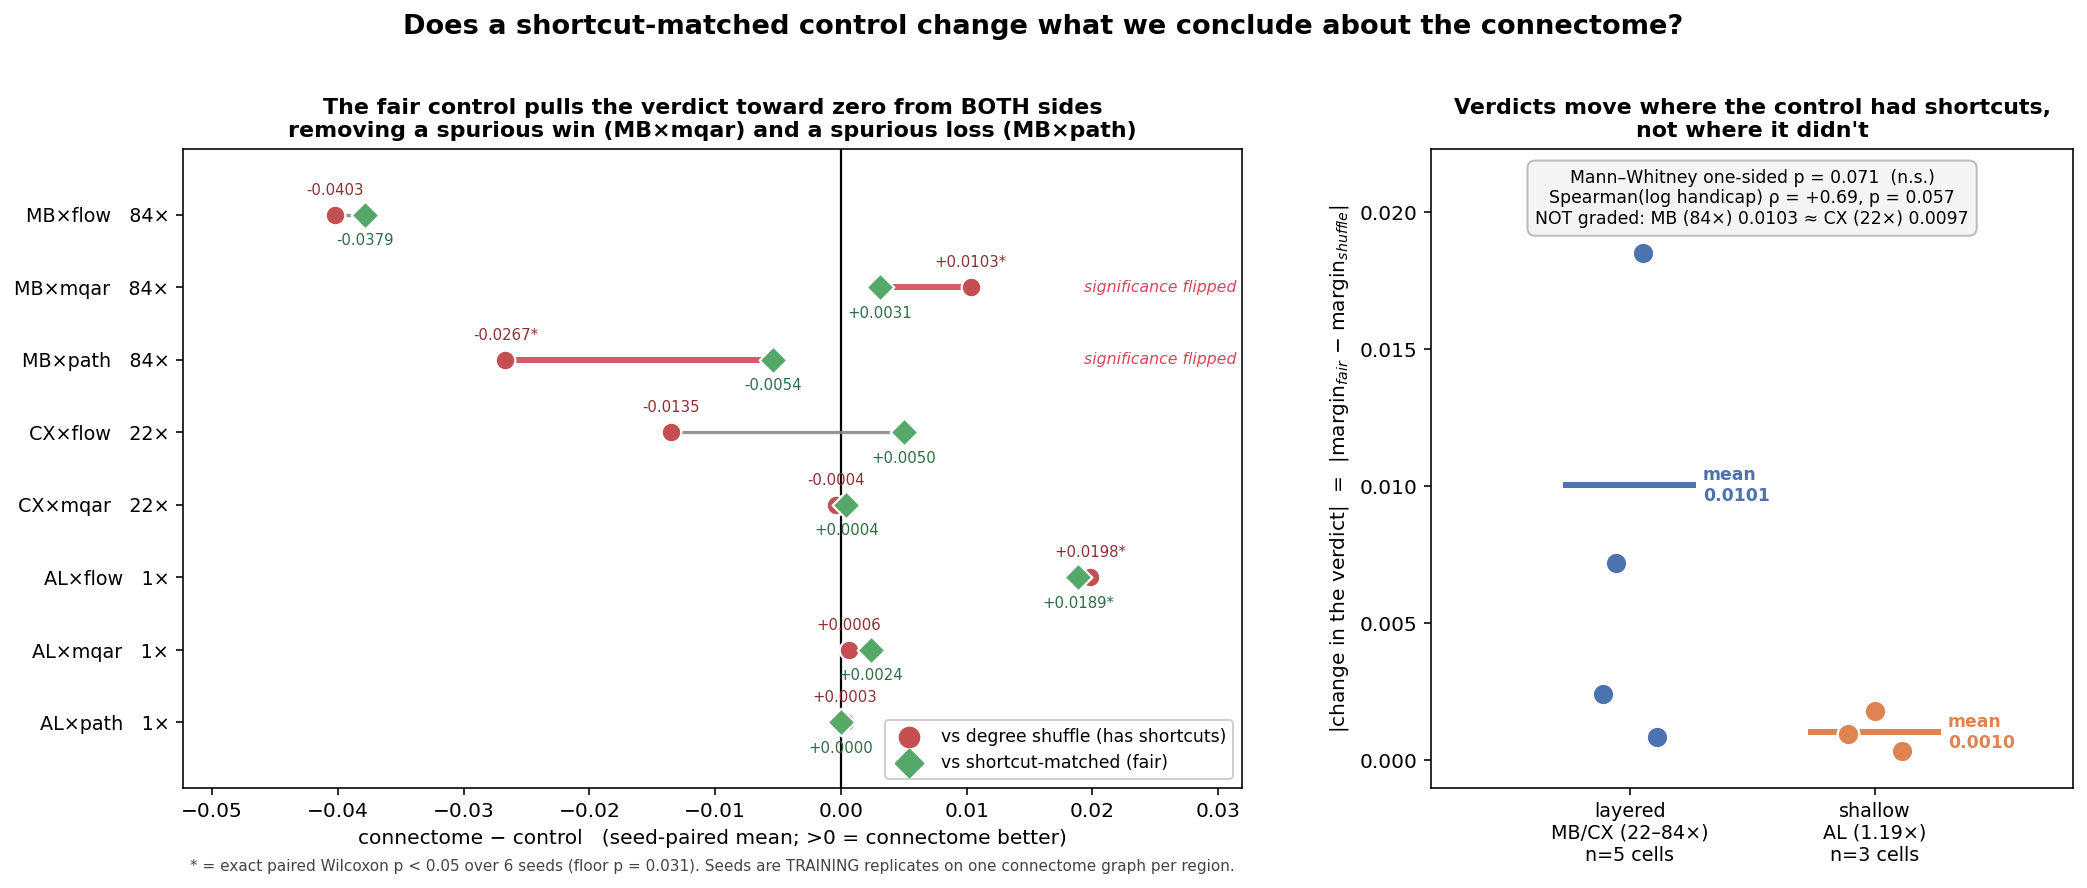
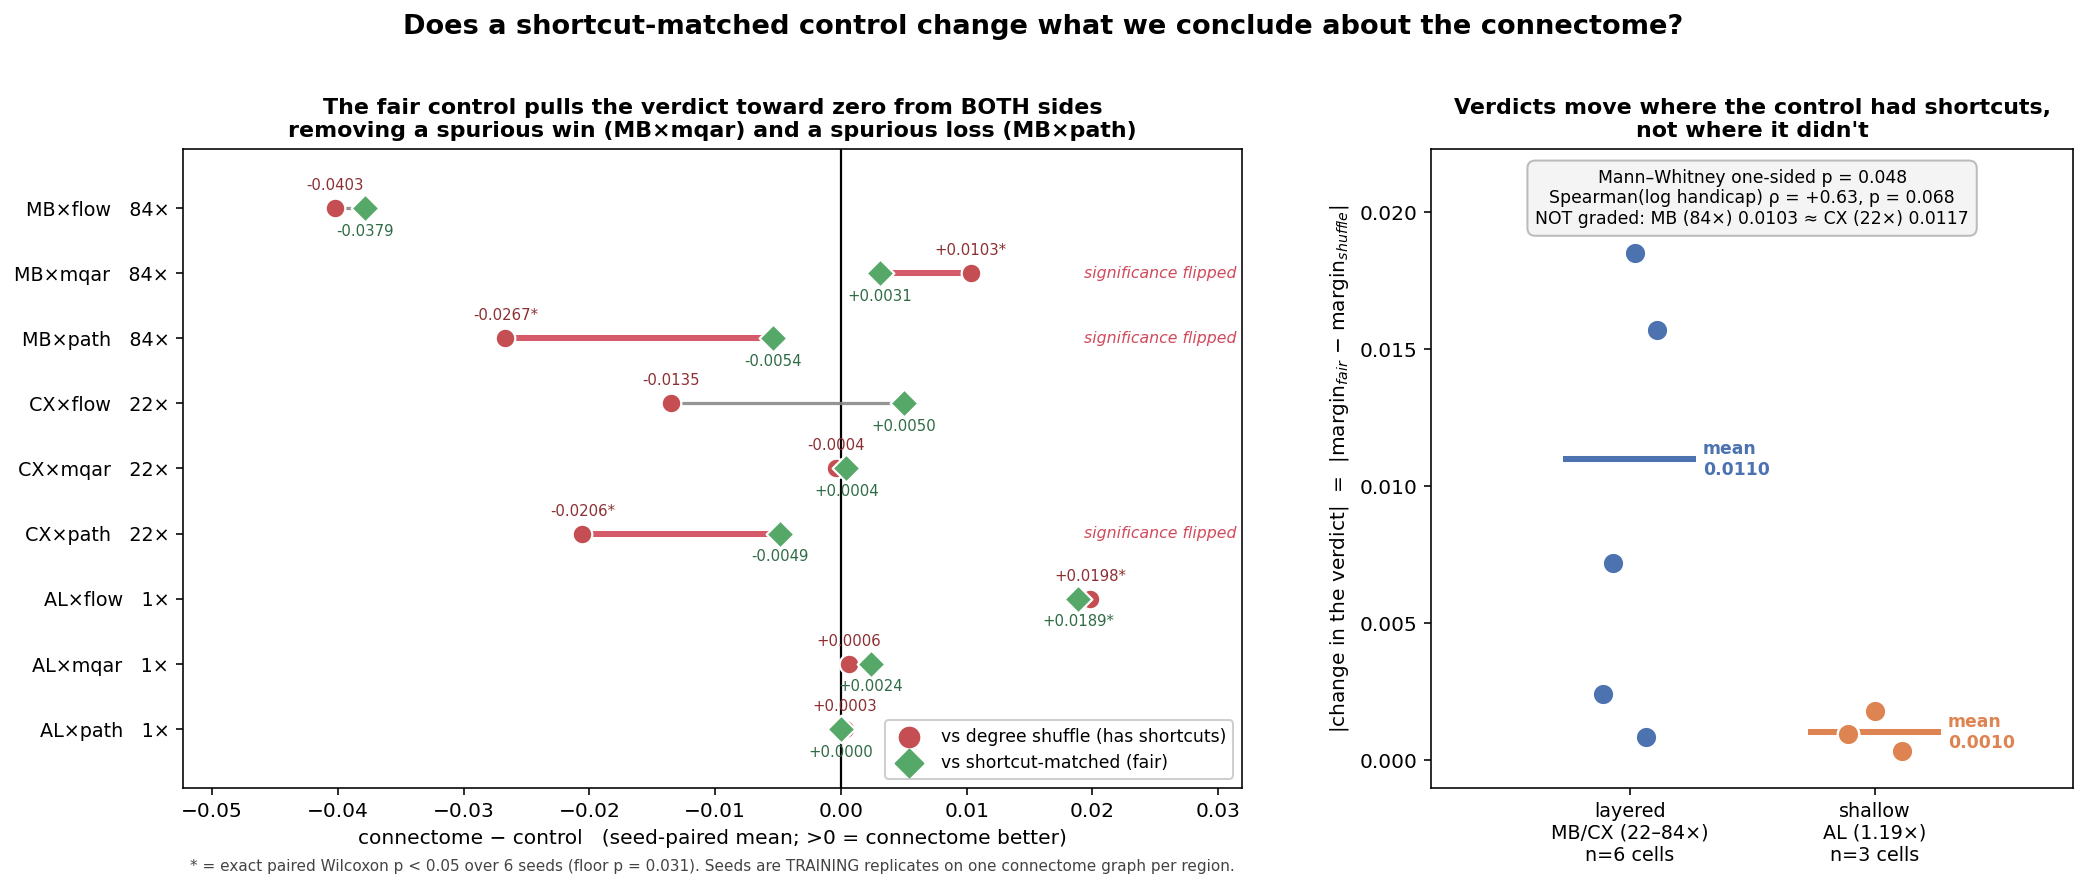
exp: complete the 3x3 grid -- CX x path makes it THREE flipped verdicts
The 9th and final cell (CX x path, run locally) completes the region x task
grid: 9 cells, 162 runs. It strengthens every part of the result.

CX x path  -0.0206 (p=0.031)  ->  -0.0049 (p=0.562)   another LOSS evaporates
~76% of its apparent deficit was the control's manufactured shortcuts.

THREE verdicts now flip significance -- two losses and one win, spanning both
layered regions and both signs:
  MB x mqar  +0.0103 (p=0.031) -> +0.0031 (p=0.094)   win  evaporates
  MB x path  -0.0267 (p=0.031) -> -0.0054 (p=0.312)   loss evaporates
  CX x path  -0.0206 (p=0.031) -> -0.0049 (p=0.562)   loss evaporates
A bias that merely flattered the connectome could not erase a loss AND a win.
Each flip is a case where the standard comparison reports a significant result
that a fair control does not support.

DIRECTION is now unambiguous: 6/9 cells shift negative, and ALL THREE that
reach significance do, each with 0/6 seeds dissenting (MB x path -0.0213,
CX x flow -0.0185, CX x path -0.0157). The shortcuts were HELPING the control.

LAYERED vs SHALLOW: 0.0110 (6 cells) vs 0.0010 (3 cells), Mann-Whitney
one-sided p=0.048. Reported as MARGINAL -- 6 vs 3 units is the smallest n at
which this test can clear 0.05, and it is uncorrected.

STILL NOT GRADED: MB (84x) moves 0.0103 and CX (22x) moves 0.0117 -- CX moves
slightly MORE despite a 4x smaller shortcut ratio. "Layered or not" is what the
data support; a dose-response is not.

diff --git a/docs/results/proper_io_matrix/SHORTCUT_MATCHED.md b/docs/results/proper_io_matrix/SHORTCUT_MATCHED.md
@@ -19,17 +19,20 @@ So I built a control that is **degree-matched *and* shortcut-matched** (`degree_
 ### The headline
 
 > **The shortcut confound changes real conclusions — and it distorts in *both* directions.**
-> Across **8 complete cells** (3 arms × 6 seeds each), giving the control a fair shortcut count
-> **flipped the significance of two verdicts, one a win and one a loss**, and both were in the
-> most-handicapped region:
+> Across the **full 3 × 3 grid — 9 cells, 162 runs** (3 arms × 6 seeds each), giving the control a
+> fair shortcut count **flipped the significance of three verdicts: two losses and one win.**
 >
 > | cell | vs **shuffle** (has shortcuts) | vs **fair** control | what changed |
 > |---|---|---|---|
 > | **MB × mqar** (84×) | **+0.0103**, p = 0.031 | **+0.0031**, p = 0.094 | a connectome **win** evaporates |
 > | **MB × path** (84×) | **−0.0267**, p = 0.031 | **−0.0054**, p = 0.312 | a connectome **loss** evaporates |
+> | **CX × path** (22×) | **−0.0206**, p = 0.031 | **−0.0049**, p = 0.562 | a connectome **loss** evaporates |
 >
-> The fair control pulls the verdict **toward zero from both sides**. Roughly **80% of MB × path's
-> apparent deficit** was the control's manufactured shortcuts.
+> The fair control pulls the verdict **toward zero from both sides**, erasing ~80% of MB × path's and
+> ~76% of CX × path's apparent deficit. **A bias that merely flattered the connectome could not do
+> this** — it would not erase a loss *and* a win. A generic input→output express lane can, because it
+> helps whichever side the control is on. **Every flip is a case where the published-style comparison
+> would have reported a significant result that a fair control does not support.**
 
 ![all cells](figures/fig_all_cells.png)
 
@@ -37,32 +40,38 @@ So I built a control that is **degree-matched *and* shortcut-matched** (`degree_
 
 | group | cells | mean \|change in verdict\| |
 |---|---|---|
-| **layered** (MB, CX — 22–84×) | 5 | **0.0101** |
+| **layered** (MB, CX — 22–84×) | 6 | **0.0110** |
 | **shallow** (AL — 1.19×) | 3 | **0.0010** |
 
-A **10× difference**, but Mann-Whitney one-sided **p = 0.071 at n = 5 vs 3 cells — suggestive, not
-significant.** And it is **not proportional to the handicap**: MB (84×) moves 0.0103 while CX (22×)
-moves 0.0097 — essentially the same. Spearman on log-handicap is ρ = +0.69, **p = 0.057**, carried
-almost entirely by AL sitting low rather than by any MB-vs-CX gradient. **AL is unmoved in all three
-of its cells** (0.0010, 0.0018, 0.0003), which is the shallow-region control behaving as predicted.
+An **11× difference**, Mann-Whitney one-sided **p = 0.048** — but read that as *marginal*: it is
+6 vs 3 cells, the smallest n at which this test can clear 0.05 at all, and it is uncorrected.
+
+It is **not proportional to the handicap**: MB (84×) moves **0.0103** and CX (22×) moves **0.0117** —
+CX moves *slightly more* despite a 4× smaller ratio. Spearman on log-handicap is ρ = +0.63,
+**p = 0.068**, carried by AL sitting low rather than by any MB-vs-CX gradient. **AL is unmoved in all
+three of its cells** (0.0010, 0.0018, 0.0003) — the shallow-region control behaving as predicted.
 
 ### Which direction do the shortcuts push?
 
-**Mostly they help the control**, which is the original hypothesis: **5 of 8 cells** shift negative
-(removing shortcuts made the control *worse*), and **both cells that reach significance** do:
+**They help the control** — the original hypothesis. **6 of 9 cells** shift negative (removing
+shortcuts made the control *worse*), and **all three cells that reach significance** do, each with
+**0/6 seeds** dissenting:
 
 | cell | control shift | p | seeds |
 |---|---|---|---|
-| **MB × path** | **−0.0213** | **0.031** | 0/6 positive |
-| **CX × flow** | **−0.0185** | **0.031** | 0/6 positive |
+| **MB × path** (84×) | **−0.0213** | **0.031** | 0/6 positive |
+| **CX × flow** (22×) | **−0.0185** | **0.031** | 0/6 positive |
+| **CX × path** (22×) | **−0.0157** | **0.031** | 0/6 positive |
 
 > **A correction to an earlier draft of this document.** With only MB × mqar and AL × flow in hand,
 > MB × mqar's **+0.0072** shift looked like evidence that the shortcuts were *hurting* the control,
-> and this file said so. With six more cells that reading is wrong: MB × mqar is the **only** layered
-> cell pointing that way, its shift is **not significant** (p = 0.31, 4/6 seeds), and **78% of it
-> comes from a single anomalous run** (`degree` seed 0 = 0.1593 vs 0.1811–0.1923 for the other five,
-> val-patience-stopped at 31 epochs vs 40 for its pair). The two cells that *do* reach significance
-> both point the other way.
+> and this file said so. With seven more cells that reading is wrong: MB × mqar is the **only**
+> layered cell pointing that way, its shift is **not significant** (p = 0.31, 4/6 seeds), and **78%
+> of it comes from a single anomalous run** (`degree` seed 0 = 0.1593 vs 0.1811–0.1923 for the other
+> five, val-patience-stopped at 31 epochs vs 40 for its pair). All three cells that *do* reach
+> significance point the other way, unanimously across seeds. The lesson recorded for next time: the
+> first cell I happened to run was the one that disagreed with the other eight, and I generalised
+> from it.
 
 **Still not established:** that the effect is *graded* in the shortcut ratio (it isn't, within
 MB vs CX), and any per-cell claim resting on n = 6 training seeds over one connectome graph.
@@ -133,7 +142,7 @@ between them cannot be attributed to the handicap alone.
 
 ## 3. Results
 
-**8 complete cells** (3 arms × 6 seeds). Unit of analysis is the **cell**, not the seed: within a
+**9 complete cells — the full 3 × 3 region × task grid, 162 runs** (3 arms × 6 seeds). Unit of analysis is the **cell**, not the seed: within a
 cell, seeds are paired across arms and summarised by an exact paired Wilcoxon; across cells we ask
 whether the layered regions moved more. Pooling seeds across cells would treat correlated runs as
 independent.
@@ -147,21 +156,20 @@ independent.
 | **MB × path** | 84× | **−0.0267\*** | **−0.0054** | **−0.0213\*** | **0.0213** |
 | **CX × flow** | 22× | −0.0135 | +0.0050 | **−0.0185\*** | **0.0185** |
 | CX × mqar | 22× | −0.0004 | +0.0004 | −0.0008 | 0.0008 |
+| **CX × path** | 22× | **−0.0206\*** | **−0.0049** | **−0.0157\*** | **0.0157** |
 | AL × flow | 1.19× | +0.0198\* | +0.0189\* | +0.0010 | 0.0010 |
 | AL × mqar | 1.19× | +0.0006 | +0.0024 | −0.0018 | 0.0018 |
 | AL × path | 1.19× | +0.0003 | +0.0000 | +0.0003 | 0.0003 |
 
-Two verdicts flipped significance, both in MB, **in opposite directions** — a win became n.s. and a
-loss became n.s. A control artefact that only inflated the connectome would not do that; one that
-adds a generic input→output shortcut would, because such a shortcut helps the control on whichever
-side it lands.
+Three verdicts flipped significance — **two losses and one win**. A control artefact that only
+inflated the connectome could not do that; one that adds a generic input→output shortcut would,
+because such a shortcut helps the control on whichever side it lands. Note the three flips span
+**both** layered regions and **both** signs.
 
 **Source hygiene.** Local (RTX Blackwell) and fleet (L4) runs are **never mixed within a cell** —
 each cell is taken whole from one source, since a hardware difference inside a paired comparison
 would land in the difference. Per-cell source is recorded in `all_cells_summary.csv`
-(local: MB×mqar, AL×flow; fleet: the other six).
-
-**CX × path is still missing** — it is the ninth cell and was still training when this was written.
+(local: MB×mqar, AL×flow, CX×path; fleet: the other six).
 
 ## 4. Limits
 
@@ -175,8 +183,8 @@ would land in the difference. Per-cell source is recorded in `all_cells_summary.
 - **Uncorrected.** 2 cells × 2 comparisons, nominal p-values.
 - **Ratios are unstable.** MB's leave-one-out shrink ranges **−32% to −80%** across the six seeds.
   Read "−70%" as a point estimate with that spread, not a measurement.
-- **Eight cells, one missing.** CX×path has not finished. n = 5 vs 3 cells makes the layered-vs-shallow
-  test (p = 0.071) suggestive only.
+- **Nine cells is still nine cells.** The layered-vs-shallow test is 6 vs 3 units at p = 0.048 — the
+  smallest n that can clear 0.05, uncorrected. Treat it as marginal.
 - **Not graded.** MB (84×) and CX (22×) move by the same amount, so the shortcut *ratio* does not
   predict the size of the effect within the layered regions. "Layered or not" is the supported
   distinction; a dose-response is not.
